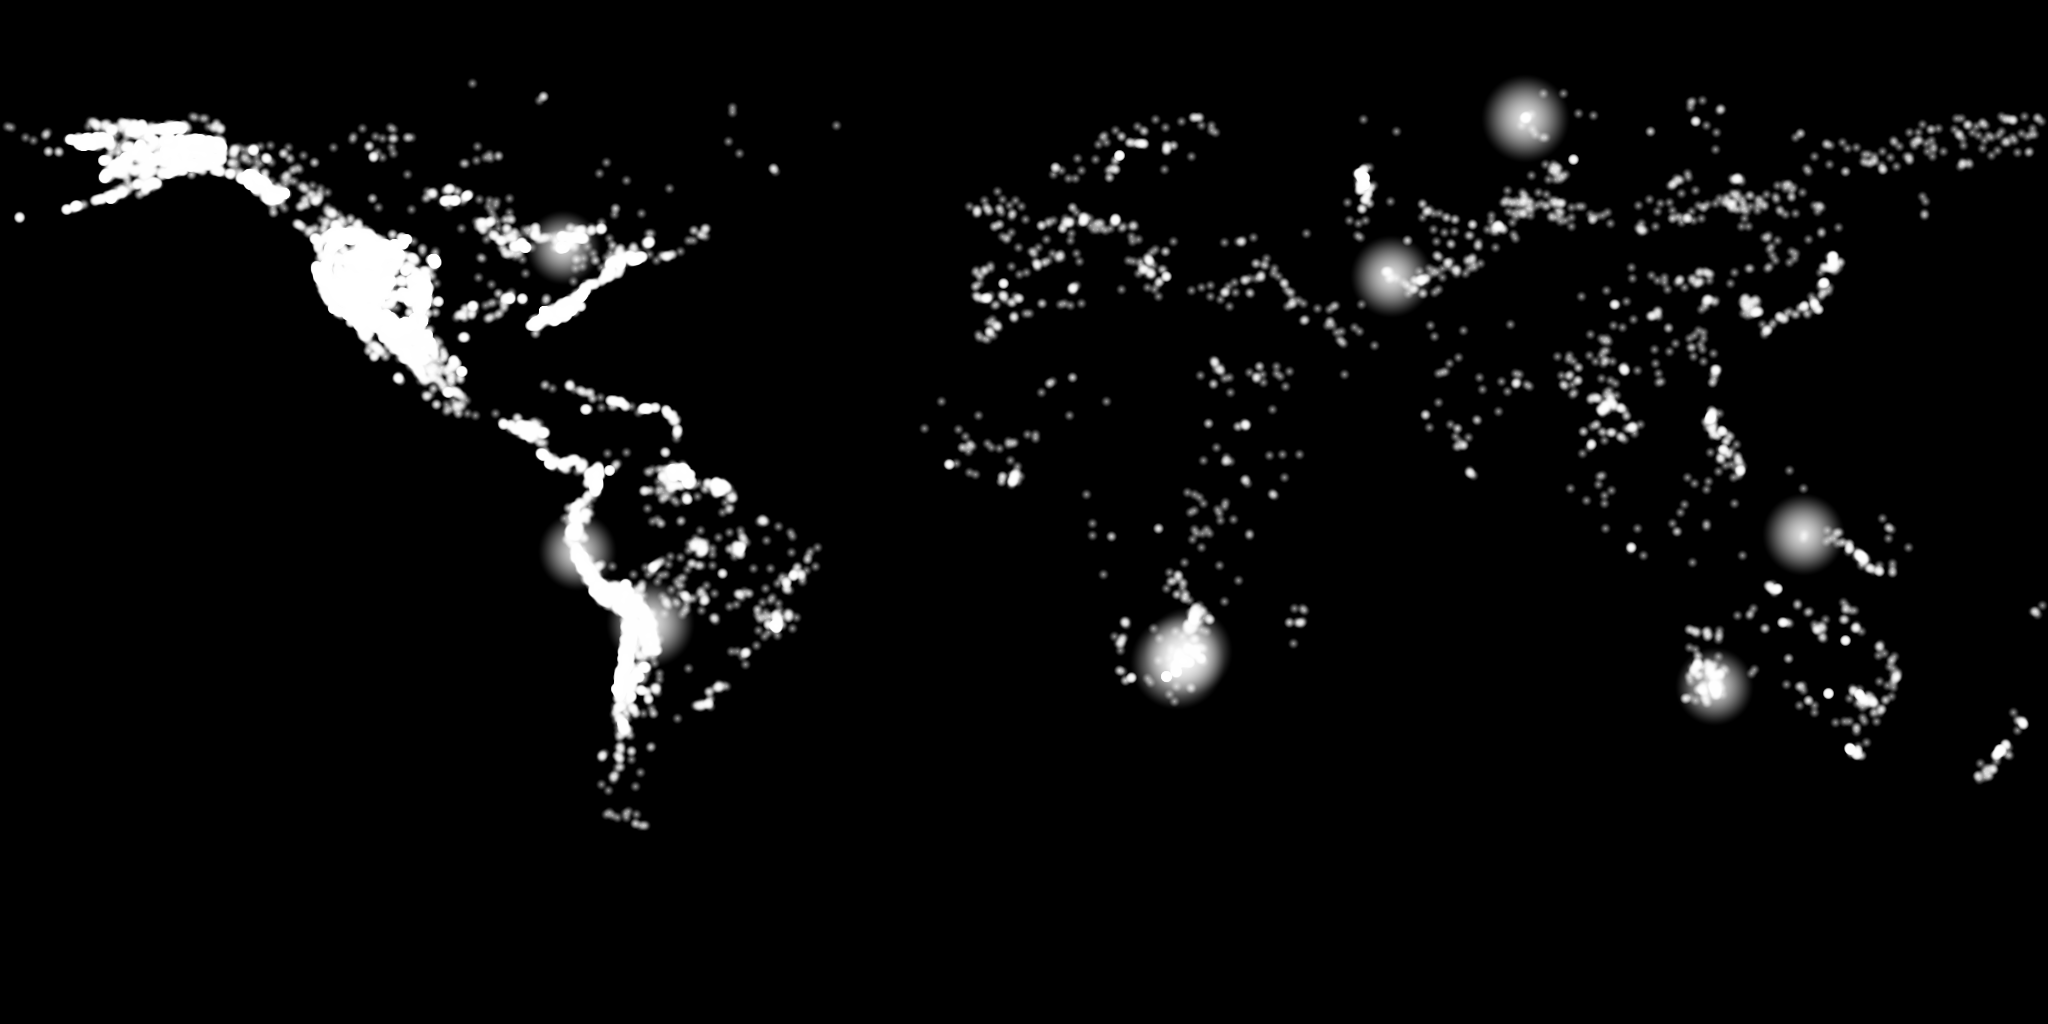
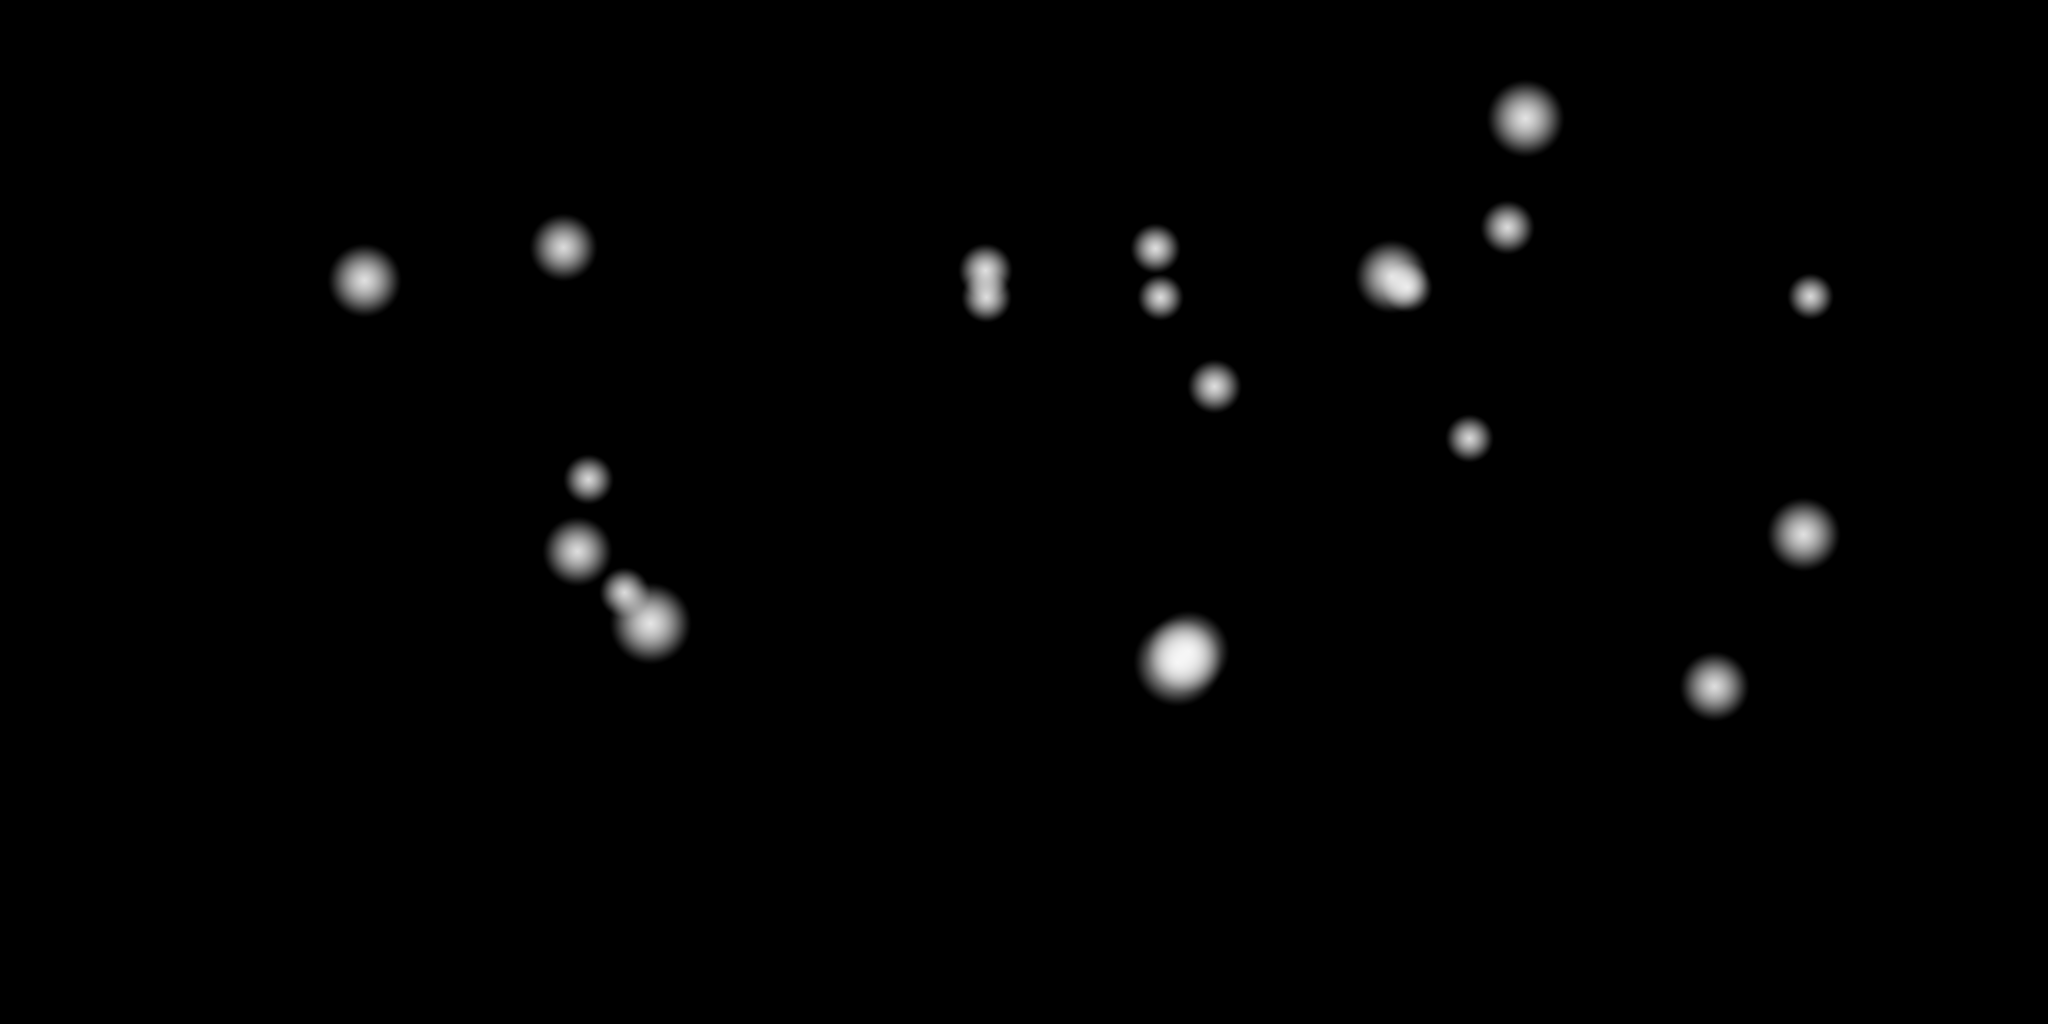
Calibrate 25-raster cartographic suite for Year 0 and paleoclimatic epochs based on external peer review

diff --git a/src/main/java/org/ether/society/data/HistoricalMapGenerator.java b/src/main/java/org/ether/society/data/HistoricalMapGenerator.java
@@ -3760,13 +3760,81 @@ public class HistoricalMapGenerator {
     }
 
     private static List<CityPoint> getCitiesForScenario(String type, Scenario scenario) {
-        if (scenario == null || scenario.getInitialHumanCount() <= 0) {
-            return getCitiesForScenario(type);
-        }
-        long pop = scenario.getInitialHumanCount();
+        long year = (scenario != null) ? scenario.getStartDateYear() : 1000L;
         List<CityPoint> list = new ArrayList<>();
 
-        if (pop >= 1_000_000_000L) { // 10^9+ Global Megacities (high tech urban hubs)
+        if (year <= -3000L) {
+            // Early Bronze Age / Megalithic Civilizations
+            list.add(new CityPoint("Uruk", 31.3, 45.6, 3.8, 2.2));
+            list.add(new CityPoint("Memphis", 29.8, 31.2, 3.8, 2.2));
+            list.add(new CityPoint("Susa", 32.2, 48.3, 3.5, 2.0));
+            list.add(new CityPoint("Mohenjo-Daro", 27.3, 68.1, 3.5, 2.0));
+            list.add(new CityPoint("Caral-Supe", -10.9, -77.5, 3.2, 2.0));
+            list.add(new CityPoint("Liangzhu", 30.4, 120.0, 3.5, 2.0));
+            list.add(new CityPoint("Knossos", 35.3, 25.2, 3.0, 1.8));
+        } else if (year <= -500L) {
+            // Bronze & Early Iron Age Empires (Thebes, Babylon, Nineveh, Anyang, Tyre)
+            list.add(new CityPoint("Thebes", 25.7, 32.6, 4.0, 2.4));
+            list.add(new CityPoint("Babylon", 32.5, 44.4, 4.2, 2.5));
+            list.add(new CityPoint("Nineveh", 36.3, 43.1, 4.0, 2.4));
+            list.add(new CityPoint("Anyang", 36.1, 114.3, 4.0, 2.4));
+            list.add(new CityPoint("Tyre", 33.3, 35.2, 3.5, 2.0));
+            list.add(new CityPoint("Varanasi", 25.3, 83.0, 3.8, 2.2));
+            list.add(new CityPoint("San Lorenzo", 17.8, -94.8, 3.0, 2.0));
+        } else if (year <= 500L) {
+            // Classical Antiquity & Axial Age (Rome, Alexandria, Chang'an, Luoyang, Pataliputra, Ctesiphon, Teotihuacán)
+            list.add(new CityPoint("Rome", 41.9, 12.5, 4.5, 2.8));
+            list.add(new CityPoint("Alexandria", 31.2, 29.9, 4.2, 2.5));
+            list.add(new CityPoint("Chang'an", 34.2, 108.9, 4.5, 2.8));
+            list.add(new CityPoint("Luoyang", 34.6, 112.4, 4.2, 2.5));
+            list.add(new CityPoint("Pataliputra", 25.6, 85.1, 4.2, 2.5));
+            list.add(new CityPoint("Ctesiphon", 33.1, 44.6, 4.0, 2.4));
+            list.add(new CityPoint("Antioch", 36.2, 36.1, 3.8, 2.2));
+            list.add(new CityPoint("Carthage", 36.8, 10.3, 3.5, 2.0));
+            list.add(new CityPoint("Athens", 37.9, 23.7, 3.4, 2.0));
+            list.add(new CityPoint("Taxila", 33.7, 72.8, 3.5, 2.0));
+            list.add(new CityPoint("Teotihuacán", 19.7, -98.9, 3.8, 2.4));
+            list.add(new CityPoint("Tikal", 17.2, -89.6, 3.2, 2.0));
+        } else if (year <= 1500L) {
+            // Medieval Era (Constantinople, Baghdad, Kaifeng, Hangzhou, Cairo, Cordoba, Kyoto, Tenochtitlan, Cuzco)
+            list.add(new CityPoint("Constantinople", 41.0, 28.9, 4.6, 2.8));
+            list.add(new CityPoint("Baghdad", 33.3, 44.4, 4.8, 2.8));
+            list.add(new CityPoint("Kaifeng", 34.7, 114.3, 4.8, 2.8));
+            list.add(new CityPoint("Hangzhou", 30.2, 120.1, 4.8, 2.8));
+            list.add(new CityPoint("Cairo", 30.0, 31.2, 4.5, 2.5));
+            list.add(new CityPoint("Cordoba", 37.9, -4.8, 4.2, 2.2));
+            list.add(new CityPoint("Delhi", 28.6, 77.2, 4.2, 2.4));
+            list.add(new CityPoint("Kyoto", 35.0, 135.7, 4.0, 2.2));
+            list.add(new CityPoint("Tenochtitlan", 19.4, -99.1, 4.2, 2.4));
+            list.add(new CityPoint("Cuzco", -13.5, -71.9, 3.8, 2.2));
+            list.add(new CityPoint("Timbuktu", 16.7, -3.0, 3.5, 2.0));
+            list.add(new CityPoint("Angkor", 13.4, 103.9, 4.4, 2.5));
+            list.add(new CityPoint("Paris", 48.8, 2.35, 4.0, 2.2));
+        } else if (year <= 1800L) {
+            // Early Modern Era (Beijing, London, Paris, Edo, Istanbul, Delhi, Amsterdam, Mexico City)
+            list.add(new CityPoint("Beijing", 39.9, 116.4, 5.0, 2.8));
+            list.add(new CityPoint("London", 51.5, -0.1, 4.8, 2.6));
+            list.add(new CityPoint("Paris", 48.8, 2.35, 4.8, 2.6));
+            list.add(new CityPoint("Edo", 35.6, 139.7, 5.0, 2.8));
+            list.add(new CityPoint("Istanbul", 41.0, 28.9, 4.8, 2.6));
+            list.add(new CityPoint("Delhi", 28.6, 77.2, 4.6, 2.5));
+            list.add(new CityPoint("Amsterdam", 52.4, 4.9, 4.2, 2.2));
+            list.add(new CityPoint("Mexico City", 19.4, -99.1, 4.2, 2.2));
+            list.add(new CityPoint("Potosí", -19.6, -65.7, 3.8, 2.0));
+        } else if (year <= 1920L) {
+            // 19th - Early 20th C Industrial (London, New York, Paris, Berlin, Vienna, St Petersburg, Chicago, Tokyo)
+            list.add(new CityPoint("London", 51.5, -0.1, 5.4, 2.8));
+            list.add(new CityPoint("New York", 40.7, -74.0, 5.4, 2.8));
+            list.add(new CityPoint("Paris", 48.8, 2.35, 5.0, 2.6));
+            list.add(new CityPoint("Berlin", 52.5, 13.4, 4.8, 2.5));
+            list.add(new CityPoint("Vienna", 48.2, 16.4, 4.6, 2.4));
+            list.add(new CityPoint("Saint Petersburg", 59.9, 30.3, 4.8, 2.5));
+            list.add(new CityPoint("Chicago", 41.8, -87.6, 4.8, 2.5));
+            list.add(new CityPoint("Tokyo", 35.6, 139.7, 5.0, 2.6));
+            list.add(new CityPoint("Shanghai", 31.2, 121.5, 4.8, 2.5));
+            list.add(new CityPoint("Calcutta", 22.5, 88.3, 4.6, 2.4));
+        } else {
+            // Contemporary / Future (Global Megacities)
             list.add(new CityPoint("Tokyo Megacity", 35.6, 139.7, 5.5, 2.8));
             list.add(new CityPoint("New York Tri-State", 40.7, -74.0, 5.2, 2.6));
             list.add(new CityPoint("London Metro", 51.5, -0.1, 4.8, 2.4));
@@ -3779,41 +3847,6 @@ public class HistoricalMapGenerator {
             list.add(new CityPoint("Paris Isle Hub", 48.8, 2.35, 4.5, 2.2));
             list.add(new CityPoint("Mexico City Valley", 19.4, -99.1, 4.8, 2.4));
             list.add(new CityPoint("Sydney Pacific Hub", -33.8, 151.2, 4.0, 2.0));
-        } else if (pop >= 100_000_000L) { // 10^8 Industrial / Modern Urban Networks
-            list.add(new CityPoint("London", 51.5, -0.1, 4.5, 2.5));
-            list.add(new CityPoint("Paris", 48.8, 2.35, 4.2, 2.2));
-            list.add(new CityPoint("New York", 40.7, -74.0, 4.5, 2.5));
-            list.add(new CityPoint("Tokyo", 35.6, 139.7, 4.8, 2.5));
-            list.add(new CityPoint("Beijing", 39.9, 116.4, 4.5, 2.4));
-            list.add(new CityPoint("Calcutta", 22.5, 88.3, 4.2, 2.2));
-            list.add(new CityPoint("Cairo", 30.0, 31.2, 4.0, 2.0));
-        } else if (pop >= 1_000_000L) { // 10^7 Imperial / Agrarian Networks
-            list.add(new CityPoint("Rome", 41.9, 12.5, 4.2, 2.5));
-            list.add(new CityPoint("Alexandria", 31.2, 29.9, 3.8, 2.2));
-            list.add(new CityPoint("Chang'an", 34.2, 108.9, 4.2, 2.5));
-            list.add(new CityPoint("Pataliputra", 25.6, 85.1, 4.0, 2.2));
-            list.add(new CityPoint("Babylon", 32.5, 44.4, 3.8, 2.0));
-        } else if (pop >= 100_000L) { // Early Agricultural Settlements
-            list.add(new CityPoint("Uruk", 31.3, 45.6, 3.5, 2.0));
-            list.add(new CityPoint("Memphis", 29.8, 31.2, 3.5, 2.0));
-            list.add(new CityPoint("Mohenjo-Daro", 27.3, 68.1, 3.2, 2.0));
-        } else { // Low / Hunter-Gatherer Band Dispersal (< 100k)
-            list.add(new CityPoint("Omo", 4.5, 36.0, 2.0, 3.5));
-            list.add(new CityPoint("Blombos", -34.4, 21.2, 1.8, 3.0));
-            list.add(new CityPoint("Madjedbebe", -12.5, 132.9, 1.8, 3.0));
-        }
-
-        List<CityPoint> specific = getCitiesForScenario(type);
-        if (specific != null && !specific.isEmpty() && pop < 1_000_000_000L) {
-            for (CityPoint cp : specific) {
-                boolean exists = false;
-                for (CityPoint ex : list) {
-                    if (distSq(cp.lng, cp.lat, ex.lng, ex.lat) < 25.0) {
-                        exists = true; break;
-                    }
-                }
-                if (!exists) list.add(cp);
-            }
         }
         return list;
     }
@@ -4486,11 +4519,31 @@ public class HistoricalMapGenerator {
         if (cachedGasMap != null) return cachedGasMap;
         int width = 2048, height = 1024;
         BufferedImage img = new BufferedImage(width, height, BufferedImage.TYPE_INT_RGB);
-        var spots = EmpiricalGeospatialDatasetIngestion.getEmpiricalGasOccurrences();
-        if (spots.isEmpty()) {
-            spots = loadMRDSDeposits("natural gas", "gas", "methane");
+        // Primary non-associated and major global natural gas basins (decoupled from oil)
+        double[][] majorGasBasins = {
+            {52.0, 26.5, 38, 2.8},    // South Pars / North Dome (Qatar/Iran - World's Largest Gas Field)
+            {77.0, 66.0, 42, 2.6},    // Urengoy Field (West Siberia, Russia)
+            {75.0, 67.5, 40, 2.5},    // Yamburg Field (West Siberia, Russia)
+            {6.8, 53.3, 30, 2.2},     // Groningen Giant Gas Field (Netherlands / North Sea)
+            {62.3, 36.5, 35, 2.4},    // Dauletabad / Galkynysh (Turkmenistan)
+            {3.3, 32.9, 34, 2.3},     // Hassi R'Mel Gas Field (Algeria)
+            {-79.5, 41.0, 36, 2.4},   // Marcellus Shale Gas Basin (Appalachian, USA)
+            {-93.5, 32.0, 32, 2.2},   // Haynesville Shale Gas (USA)
+            {106.0, 30.5, 35, 2.3},   // Sichuan Gas Basin (China)
+            {34.0, 32.8, 28, 2.0},    // Leviathan & Tamar Basins (Eastern Mediterranean)
+            {44.0, 73.0, 35, 2.2},    // Shtokman Gas Field (Barents Sea)
+            {116.0, -19.5, 32, 2.2},  // Northwest Shelf Gas Basin (Australia)
+            {-120.0, 56.0, 32, 2.1},  // Montney Gas Basin (Western Canada)
+            {49.0, 51.5, 34, 2.3},    // Karachaganak Gas Field (Kazakhstan)
+            {103.5, 6.0, 30, 2.0}     // Gulf of Thailand Gas Basin
+        };
+        var spots = new java.util.ArrayList<double[]>();
+        for (double[] gSpot : majorGasBasins) spots.add(gSpot);
+        var empirical = EmpiricalGeospatialDatasetIngestion.getEmpiricalGasOccurrences();
+        if (!empirical.isEmpty()) {
+            for (double[] e : empirical) spots.add(e);
         }
-        rasterizeSpotListToAlpha(img, spots, Color.WHITE, 10.0);
+        rasterizeSpotListToAlpha(img, spots, Color.WHITE, 8.0);
         cachedGasMap = img;
         return img;
     }
@@ -4540,21 +4593,36 @@ public class HistoricalMapGenerator {
         if (cachedPreciousMetalsMap != null) return cachedPreciousMetalsMap;
         int width = 2048, height = 1024;
         BufferedImage img = new BufferedImage(width, height, BufferedImage.TYPE_INT_RGB);
-        var spots = loadMRDSDeposits("gold", "silver", "platinum", "palladium", "electrum");
+        // Dedicated authentic metallogeny for Gold, Silver & Platinum (Ancient + Global Giant Reserves)
         double[][] majorPrecious = {
-            {27.0, -26.5, 48, 2.8},   // Witwatersrand (South Africa - Giant Gold)
-            {29.0, -24.5, 45, 2.6},   // Bushveld Complex Platinum (South Africa)
-            {-116.0, 40.8, 42, 2.5},  // Carlin Trend Nevada (USA - Gold)
-            {-65.7, -19.6, 45, 2.7},  // Potosí Cerro Rico (Bolivia - Silver)
-            {121.5, -30.7, 40, 2.4},  // Kalgoorlie Super Pit (Australia - Gold)
-            {64.6, 41.5, 42, 2.5},    // Muruntau Gold (Uzbekistan)
-            {88.2, 69.3, 45, 2.6},    // Norilsk-Talnakh PGMs (Russia)
-            {-81.0, 46.5, 38, 2.3},   // Sudbury Basin (Canada - PGMs/Au)
-            {-78.5, -7.0, 40, 2.4},   // Yanacocha (Peru - Gold)
-            {137.1, -4.0, 42, 2.5}    // Grasberg (Indonesia - Gold/Copper)
+            // Authentic Ancient Historical Gold & Silver Mines (Antiquity & Medieval)
+            {-6.77, 42.46, 28, 2.5},  // Las Médulas (Hispania / Rome - World's Largest Ancient Gold Mine)
+            {-6.56, 37.69, 26, 2.4},  // Rio Tinto (Hispania / Rome - Silver & Gold)
+            {24.06, 37.71, 24, 2.3},  // Laurion (Attica / Greece - Silver of Classical Athens)
+            {23.13, 46.30, 26, 2.4},  // Roșia Montană / Dacia (Roman Imperial Gold Mines)
+            {33.50, 22.00, 28, 2.4},  // Nubia / Wadi Allaqi (Pharaonic & Ptolemaic Gold)
+            {67.50, 39.50, 26, 2.3},  // Bactria / Zeravshan Valley Gold (Sogdia / Silk Road)
+            {78.27, 12.96, 25, 2.2},  // Kolar Gold Fields (India / Maurya Empire)
+            {85.00, 50.00, 28, 2.3},  // Altai Mountains Gold Placers (Scythian Gold)
+            {-76.60, 5.70, 26, 2.2},   // Chocó / Calima (Colombia - Pre-Columbian Gold)
+            {-70.20, -14.20, 26, 2.3}, // Carabaya / Lake Titicaca (Peru - Inca Gold)
+            {138.30, 38.00, 24, 2.2}, // Sado Island Gold Mine (Japan)
+
+            // Giant Global Metallogenic Provinces
+            {27.0, -26.5, 45, 2.8},   // Witwatersrand (South Africa - Giant Conglomerate Gold)
+            {29.0, -24.5, 42, 2.6},   // Bushveld Complex Platinum (South Africa)
+            {-116.0, 40.8, 38, 2.5},  // Carlin Trend Nevada (USA - Epithermal Gold)
+            {-65.7, -19.6, 42, 2.7},  // Potosí Cerro Rico (Bolivia - Giant Silver Mountain)
+            {121.5, -30.7, 36, 2.4},  // Kalgoorlie Golden Mile (Australia)
+            {64.6, 41.5, 38, 2.5},    // Muruntau (Uzbekistan - World's Largest Open-Pit Gold)
+            {88.2, 69.3, 40, 2.6},    // Norilsk-Talnakh PGMs (Russia)
+            {-81.0, 46.5, 35, 2.3},   // Sudbury Basin (Canada - PGMs/Au)
+            {-78.5, -7.0, 36, 2.4},   // Yanacocha (Peru - Epithermal Gold)
+            {137.1, -4.0, 38, 2.5}    // Grasberg (Indonesia - Porphyry Au/Cu)
         };
-        for (double[] p : majorPrecious) spots.add(p);
-        rasterizeSpotListToAlpha(img, spots, Color.WHITE, 5.0);
+        var list = new java.util.ArrayList<double[]>();
+        for (double[] p : majorPrecious) list.add(p);
+        rasterizeSpotListToAlpha(img, list, Color.WHITE, 6.0);
         cachedPreciousMetalsMap = img;
         return img;
     }
@@ -4682,33 +4750,30 @@ public class HistoricalMapGenerator {
         if (cachedAquiferMap != null) return cachedAquiferMap;
         int width = 2048, height = 1024;
         BufferedImage img = new BufferedImage(width, height, BufferedImage.TYPE_INT_RGB);
-        var spots = EmpiricalGeospatialDatasetIngestion.getEmpiricalAquiferOccurrences();
-        if (spots.isEmpty()) {
-            // Fallback to major global sedimentary aquifer systems (UNESCO WHYMAP GWR)
-            double[][] majorAquifers = {
-                {25.0, 22.0, 85, 1.5},   // Nubian Sandstone Aquifer System (2.2M km2)
-                {-100.0, 38.0, 65, 1.3}, // Ogallala Aquifer USA
-                {-54.0, -25.0, 80, 1.5}, // Guaraní Aquifer South America (1.2M km2)
-                {138.0, -26.0, 85, 1.4}, // Great Artesian Basin Australia (1.7M km2)
-                {10.0, 30.0, 70, 1.3},   // Northern Sahara Aquifer System
-                {80.0, 27.0, 75, 1.4},   // Indo-Gangetic Basin
-                {2.0, 47.0, 55, 1.2},    // Paris / Aquitaine Basins Europe
-                {-60.0, -3.0, 90, 1.5},  // Amazon Basin Aquifers
-                {22.0, -1.0, 75, 1.3},   // Congo Basin Aquifer
-                {75.0, 60.0, 85, 1.4},   // West Siberian Basin Aquifer
-                {122.0, -18.0, 60, 1.2}, // Canning Basin Australia
-                {82.0, 39.0, 55, 1.2},   // Tarim Basin Aquifer
-                {-48.0, -1.5, 50, 1.2},  // Marajó Aquifer System
-                {-118.0, 36.0, 45, 1.2}, // California Central Valley Aquifer
-                {45.0, 25.0, 60, 1.3},   // Arabian Aquifer System
-                {16.0, 14.0, 65, 1.3},   // Chad Basin Aquifer
-                {23.0, -22.0, 60, 1.2},  // Kalahari / Karoo Aquifer
-                {116.0, 37.0, 65, 1.3},  // North China Plain Aquifer
-                {70.0, 30.0, 65, 1.3}    // Indus Basin Aquifer
-            };
-            for (double[] a : majorAquifers) spots.add(a);
-        }
-        rasterizeSpotListToAlpha(img, spots, Color.WHITE, 12.0);
+        // Continuous sedimentary aquifer basins (UNESCO WHYMAP GWR)
+        double[][] majorAquifers = {
+            {26.0, 22.0, 120, 2.2},   // Nubian Sandstone Aquifer System (2.2M km2)
+            {-100.0, 38.0, 90, 1.8},  // Ogallala Aquifer High Plains USA
+            {-54.0, -25.0, 110, 2.0}, // Guaraní Aquifer South America (1.2M km2)
+            {138.0, -26.0, 120, 1.9}, // Great Artesian Basin Australia (1.7M km2)
+            {8.0, 30.0, 100, 1.8},    // Northern Sahara Aquifer System
+            {80.0, 27.0, 95, 2.0},    // Indo-Gangetic Basin Alluvium
+            {2.0, 47.0, 75, 1.6},     // Paris & Aquitaine Basins Europe
+            {-60.0, -3.0, 130, 2.0},  // Amazon Sedimentary Basin
+            {22.0, -1.0, 110, 1.8},   // Congo Basin Aquifers
+            {75.0, 60.0, 120, 1.9},   // West Siberian Basin Aquifer
+            {122.0, -18.0, 85, 1.5},  // Canning Basin Australia
+            {82.0, 39.0, 80, 1.5},    // Tarim Basin Aquifer
+            {-119.5, 36.5, 65, 1.6},  // California Central Valley Aquifer
+            {46.0, 24.0, 90, 1.7},    // Arabian Aquifer System
+            {16.0, 14.0, 90, 1.7},    // Chad Basin Aquifer
+            {23.0, -23.0, 85, 1.6},   // Kalahari / Karoo Aquifer
+            {116.0, 37.0, 90, 1.8},   // North China Plain Aquifer
+            {70.0, 30.0, 90, 1.8}     // Indus Basin Aquifer
+        };
+        var list = new java.util.ArrayList<double[]>();
+        for (double[] a : majorAquifers) list.add(a);
+        rasterizeSpotListToAlpha(img, list, Color.WHITE, 40.0);
         cachedAquiferMap = img;
         return img;
     }

diff --git a/src/main/java/org/ether/society/data/WorldClimEmpiricalRasterLoader.java b/src/main/java/org/ether/society/data/WorldClimEmpiricalRasterLoader.java
@@ -95,13 +95,13 @@ public class WorldClimEmpiricalRasterLoader {
                             precipBaseline[y][x] = pv;
                         }
 
-                        // 3. Temperature Seasonality (WorldClim Bio4 = std dev * 100 -> convert to annual amplitude °C)
+                        // 3. Temperature Seasonality (WorldClim Bio4 = std dev * 100 -> convert to full annual peak-to-peak amplitude °C = 2 * sqrt(2) * SD)
                         float sv = sRaw[srcY][srcX];
                         if (Float.isNaN(sv) || sv < 0.0f || sv > 50000.0f) {
                             seasonBaseline[y][x] = (float) computePhysicalMarineSeasonality(lat, lon);
                         } else {
-                            double rangeC = (sv / 100.0) * 0.28;
-                            seasonBaseline[y][x] = (float) Math.clamp(rangeC, 0.5, 65.0);
+                            double rangeC = (sv / 100.0) * 2.8284;
+                            seasonBaseline[y][x] = (float) Math.clamp(rangeC, 1.5, 65.0);
                         }
                     }
                 }

diff --git a/src/main/java/org/ether/society/data/AnalyticalEpidemiologyModel.java b/src/main/java/org/ether/society/data/AnalyticalEpidemiologyModel.java
@@ -103,8 +103,8 @@ public class AnalyticalEpidemiologyModel {
 
                 if (isAmericas || isOceania) {
                     if (year < 1492L) {
-                        // Isolated endemic baseline: Amazonian/tropical arboviruses present, but NO Old World crowd diseases
-                        baseStress = 18.0 + (isAmericas ? (amazon * 45.0 + tropicalCore * 25.0) : (tropicalCore * 30.0));
+                        // Isolated endemic baseline: Amazonian/tropical arboviruses present, but NO Old World crowd zoonoses (smallpox, measles, plague)
+                        baseStress = 14.0 + (isAmericas ? (amazon * 25.0 + tropicalCore * 12.0) : (tropicalCore * 14.0));
                     } else {
                         // Virgin soil epidemic shock following 1492 contact
                         double timeSinceContact = Math.min(120.0, (double) (year - 1492L));
